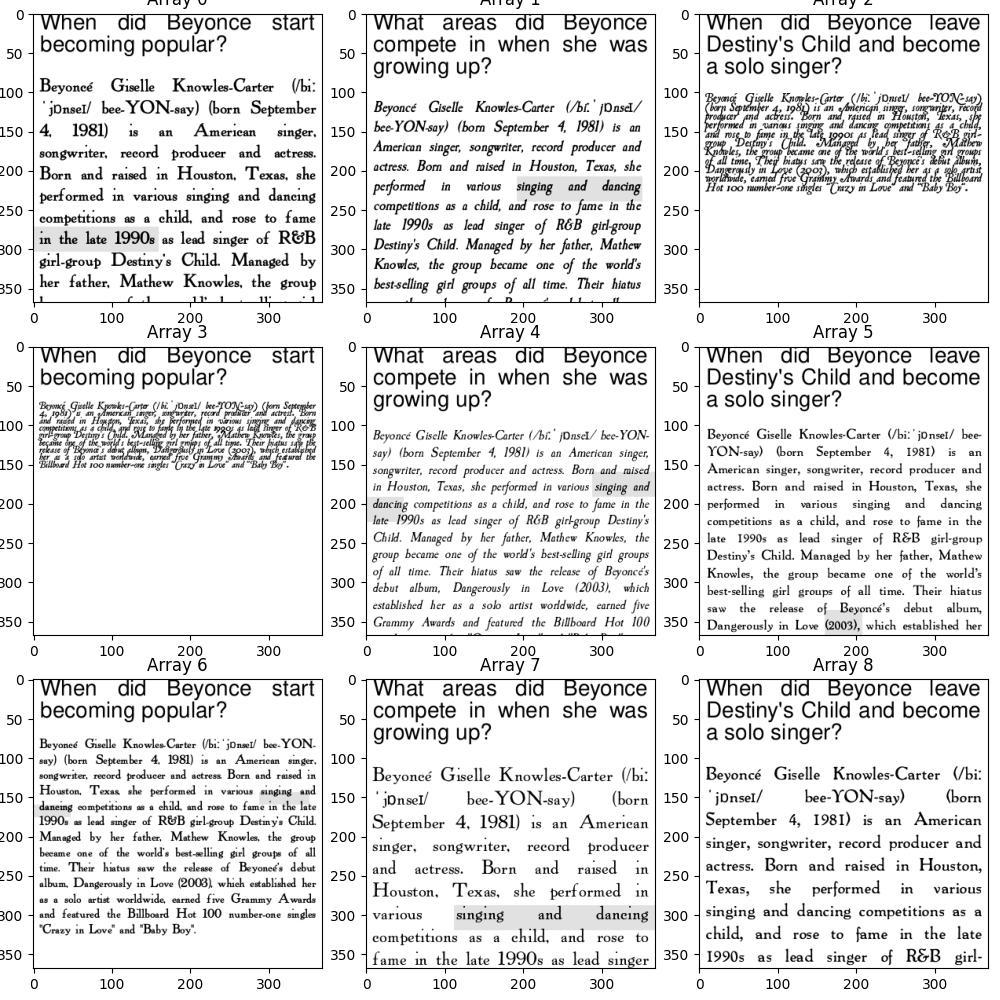
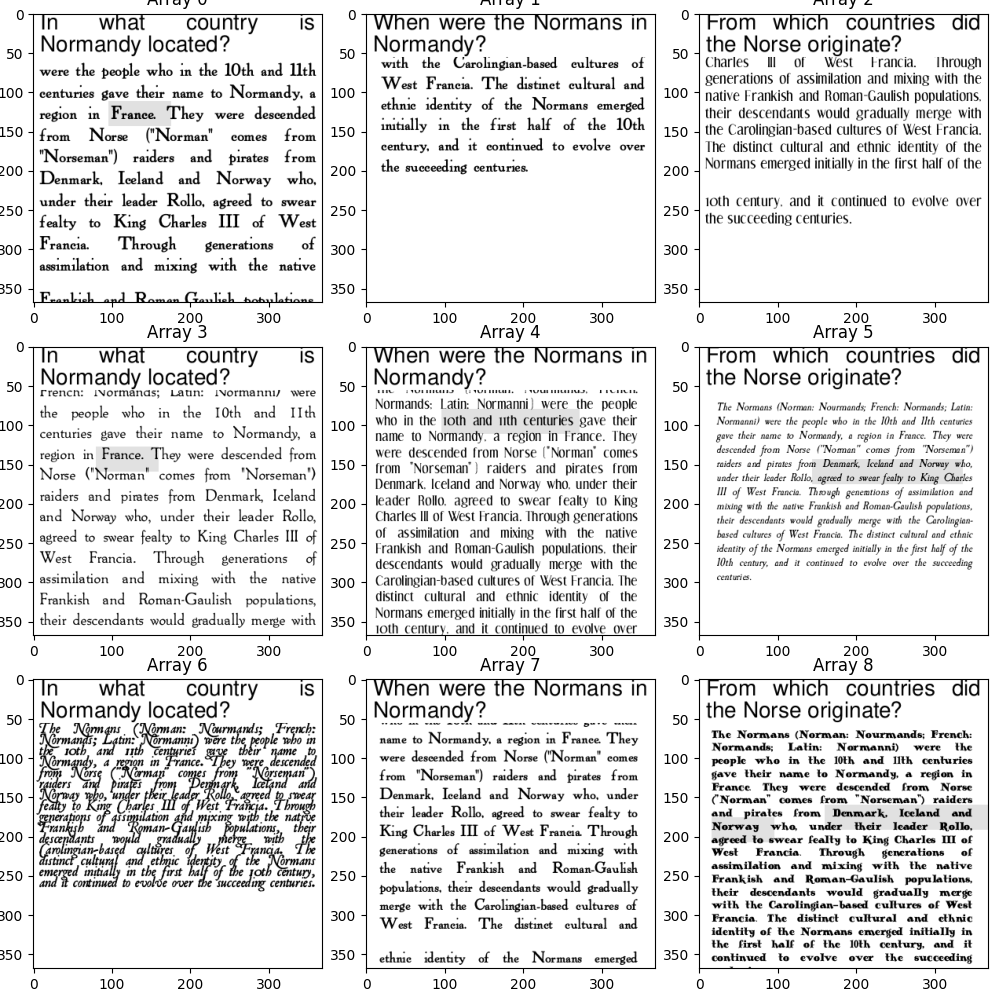
improved accuracy of the squad mask

diff --git a/utils/squad_utils.py b/utils/squad_utils.py
@@ -1,5 +1,6 @@
 from typing import List, Tuple
 import numpy as np
+from math import ceil, floor
 
 
 def merge_rectangles(rect1: Tuple[float], rect2: Tuple[float], tolerance=5):
@@ -21,24 +22,28 @@ def merge_rectangles(rect1: Tuple[float], rect2: Tuple[float], tolerance=5):
         return None
 
 
-def generate_mask_from_recangles(rectangles: List[Tuple[int]], img_shape: Tuple[int], patch_size: int = 16):
+def generate_mask_from_recangles(
+    rectangles: List[Tuple[int]], img_shape: Tuple[int], patch_size: int = 16
+):
     patch_image = np.zeros((img_shape[0] // patch_size, img_shape[1] // patch_size))
     for rectangle in rectangles:
-        x_patch = rectangle[0] // patch_size
-        y_patch = rectangle[1] // patch_size
+        x_patch = floor(rectangle[0] / patch_size)
+        y_patch = floor(rectangle[1] / patch_size)
+        
+        w_patch = round((rectangle[0] + rectangle[2]) / patch_size)
+        h_patch = round((rectangle[1] + rectangle[3]) / patch_size)
 
-        w_patch = rectangle[2] // patch_size
-        h_patch = rectangle[3] // patch_size
-
-        patch_image[y_patch:y_patch+h_patch + 1, x_patch:x_patch+w_patch + 1] = 1
+        patch_image[
+            y_patch : h_patch + 1, x_patch : w_patch + 1
+        ] = 1
     return patch_image, np.kron(patch_image, np.ones((patch_size, patch_size)))
-    
-    
+
+
 def merge_close_rectangles(rectangles: List[Tuple[float]], tolerance=10):
     while True:
         merged = False
         for i in range(len(rectangles)):
-            for j in range(i+1, len(rectangles)):
+            for j in range(i + 1, len(rectangles)):
                 rect1 = rectangles[i]
                 rect2 = rectangles[j]
                 merged_rect = merge_rectangles(rect1, rect2, tolerance)
@@ -66,7 +71,7 @@ def merge_rectangle_line(rectangles: List[Tuple[float]]):
     max_y = max([y + h for x, y, w, h in rectangles])
     merged = (min_x, min_y, max_x - min_x, max_y - min_y)
     return merged
-    
+
 
 def find_rectangle_centers(rectangles: List[Tuple[float]]):
     """
@@ -74,7 +79,7 @@ def find_rectangle_centers(rectangles: List[Tuple[float]]):
     """
     centers = []
     for x, y, w, h in rectangles:
-        centers.append((x + w/2, y + h/2))
+        centers.append((x + w / 2, y + h / 2))
     return centers
 
 

diff --git a/squad_dataset_for_pixel.py b/squad_dataset_for_pixel.py
@@ -355,7 +355,7 @@ def main():
 
     transform = None
     train_dataset = SquadDatasetForPixel(
-        config=wandb.config, transform=transform, rng=rng, split="train"
+        config=wandb.config, transform=transform, rng=rng, split="validation"
     )
     figures = []
     for i in range(3):
